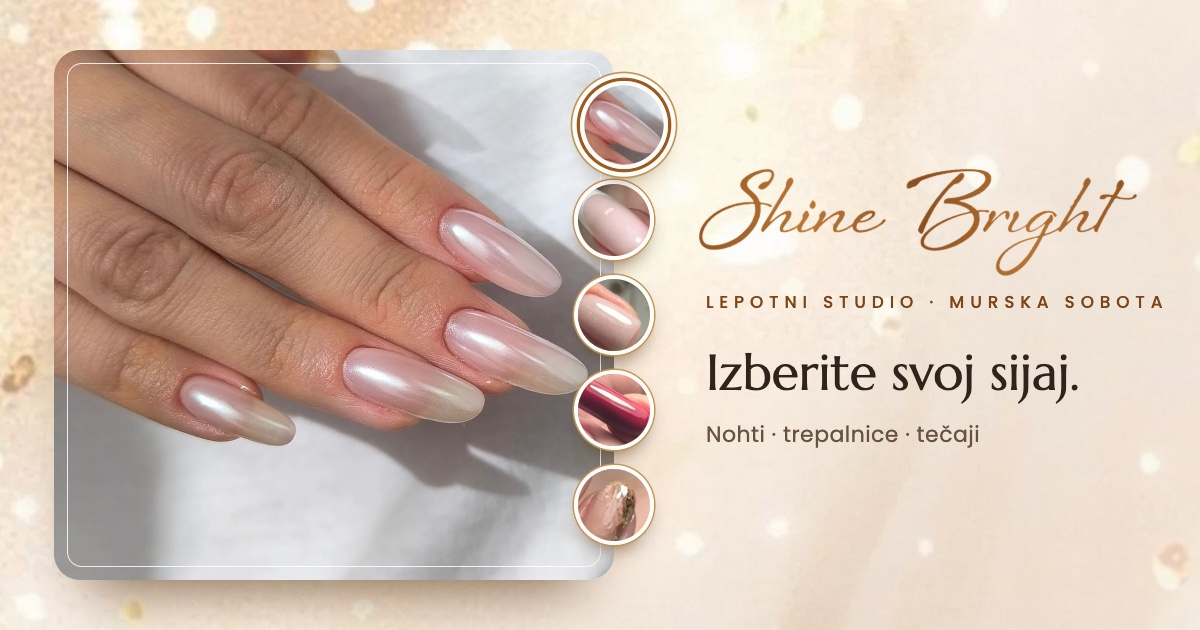
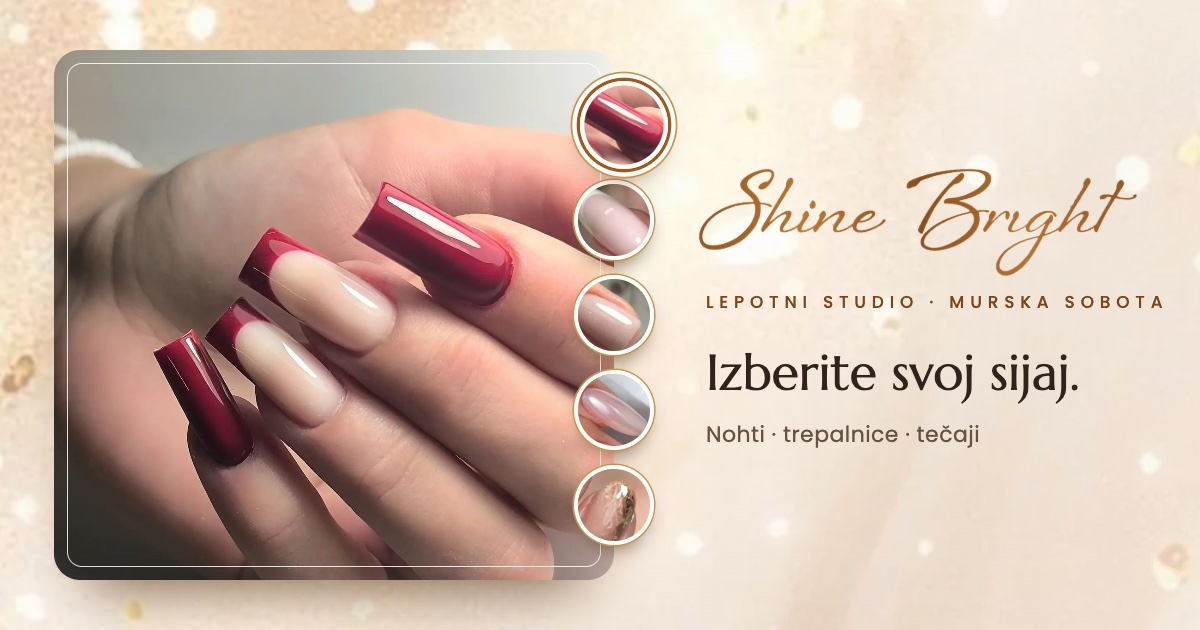
Shine Bright: deep red opens the hero

diff --git a/lepotnistudioshinebright/index.html b/lepotnistudioshinebright/index.html
@@ -15,7 +15,7 @@
   <meta property="og:image" content="https://miheec-studio.github.io/website-demo/lepotnistudioshinebright/assets/og.jpg">
   <meta property="og:image:width" content="1200">
   <meta property="og:image:height" content="630">
-  <meta property="og:image:alt" content="Shine Bright, lepotni studio v Murski Soboti: nohti z bisernim sijajem">
+  <meta property="og:image:alt" content="Shine Bright, lepotni studio v Murski Soboti: nohti v globoki rdeči">
   <meta property="og:locale" content="sl_SI">
   <meta property="og:locale:alternate" content="en_US">
   <meta name="twitter:card" content="summary_large_image">
@@ -24,7 +24,7 @@
   <link rel="preload" href="assets/fonts/marcellus-normal-400-latin.woff2" as="font" type="font/woff2" crossorigin>
   <link rel="preload" href="assets/fonts/poppins-normal-400-latin.woff2" as="font" type="font/woff2" crossorigin>
   <link rel="stylesheet" href="fonts.css">
-  <link rel="stylesheet" href="style.css?v=1">
+  <link rel="stylesheet" href="style.css?v=2">
   <script>
     // Language before first paint: the visitor's own choice, else Slovenian for Slovenian-language devices
     (function () {
@@ -89,24 +89,24 @@
 
         <div class="hero__stage">
           <div class="stage" id="stage">
-            <img class="stage__img is-on" src="assets/img/look-chrome.jpg" width="1280" height="1122" fetchpriority="high" data-look="chrome" style="object-position: 62% 50%"
-                 alt="Roka z dolgimi mandljastimi nohti v bisernem chrome sijaju" data-alt-en="A hand with long almond nails in a pearl chrome shine">
-            <p class="stage__name" id="lookName"><span class="stage__no">N° 1</span><span data-lang="sl">Biserni chrome</span><span data-lang="en">Pearl chrome</span></p>
+            <img class="stage__img is-on" src="assets/img/look-rdeca.jpg" width="1280" height="1148" fetchpriority="high" data-look="rdeca" style="object-position: 48% 42%"
+                 alt="Dolgi kvadratni nohti v globoki rdeči" data-alt-en="Long square nails in deep red">
+            <p class="stage__name" id="lookName"><span class="stage__no">N° 1</span><span data-lang="sl">Globoka rdeča</span><span data-lang="en">Deep red</span></p>
             <span class="stage__shine" aria-hidden="true"></span>
           </div>
           <div class="picker" id="picker" role="group" aria-label="Izberite videz" data-label-sl="Izberite videz" data-label-en="Choose a look">
-            <button class="swatch" type="button" aria-pressed="true" data-look="chrome" data-cat="chrome" data-src="assets/img/look-chrome.jpg" data-w="1280" data-h="1122" data-pos="62% 50%"
-                    data-name-sl="Biserni chrome" data-name-en="Pearl chrome" aria-label="Biserni chrome" data-label-sl="Biserni chrome" data-label-en="Pearl chrome"
-                    data-alt-sl="Roka z dolgimi mandljastimi nohti v bisernem chrome sijaju" data-alt-en="A hand with long almond nails in a pearl chrome shine"><img src="assets/img/sw-chrome.jpg" width="168" height="168" alt=""></button>
+            <button class="swatch" type="button" aria-pressed="true" data-look="rdeca" data-cat="rdeca" data-src="assets/img/look-rdeca.jpg" data-w="1280" data-h="1148" data-pos="48% 42%"
+                    data-name-sl="Globoka rdeča" data-name-en="Deep red" aria-label="Globoka rdeča" data-label-sl="Globoka rdeča" data-label-en="Deep red"
+                    data-alt-sl="Dolgi kvadratni nohti v globoki rdeči" data-alt-en="Long square nails in deep red"><img src="assets/img/sw-rdeca.jpg" width="168" height="168" alt=""></button>
             <button class="swatch" type="button" aria-pressed="false" data-look="french" data-cat="french" data-src="assets/img/look-french.jpg" data-w="1280" data-h="1348" data-pos="50% 30%"
                     data-name-sl="Klasičen french" data-name-en="Classic French" aria-label="Klasičen french" data-label-sl="Klasičen french" data-label-en="Classic French"
                     data-alt-sl="Klasičen french od blizu: rožnata podlaga in bele konice" data-alt-en="Classic French up close: a pink base and white tips"><img src="assets/img/sw-french.jpg" width="168" height="168" alt=""></button>
             <button class="swatch" type="button" aria-pressed="false" data-look="nude" data-cat="nude" data-src="assets/img/look-nude.jpg" data-w="1280" data-h="1052" data-pos="72% 45%"
                     data-name-sl="Nežen nude" data-name-en="Soft nude" aria-label="Nežen nude" data-label-sl="Nežen nude" data-label-en="Soft nude"
                     data-alt-sl="Kratki nude nohti z nežnim leskom" data-alt-en="Short nude nails with a soft shimmer"><img src="assets/img/sw-nude.jpg" width="168" height="168" alt=""></button>
-            <button class="swatch" type="button" aria-pressed="false" data-look="rdeca" data-cat="rdeca" data-src="assets/img/look-rdeca.jpg" data-w="1280" data-h="1148" data-pos="48% 42%"
-                    data-name-sl="Globoka rdeča" data-name-en="Deep red" aria-label="Globoka rdeča" data-label-sl="Globoka rdeča" data-label-en="Deep red"
-                    data-alt-sl="Dolgi kvadratni nohti v globoki rdeči" data-alt-en="Long square nails in deep red"><img src="assets/img/sw-rdeca.jpg" width="168" height="168" alt=""></button>
+            <button class="swatch" type="button" aria-pressed="false" data-look="chrome" data-cat="chrome" data-src="assets/img/look-chrome.jpg" data-w="1280" data-h="1122" data-pos="62% 50%"
+                    data-name-sl="Biserni chrome" data-name-en="Pearl chrome" aria-label="Biserni chrome" data-label-sl="Biserni chrome" data-label-en="Pearl chrome"
+                    data-alt-sl="Roka z dolgimi mandljastimi nohti v bisernem chrome sijaju" data-alt-en="A hand with long almond nails in a pearl chrome shine"><img src="assets/img/sw-chrome.jpg" width="168" height="168" alt=""></button>
             <button class="swatch" type="button" aria-pressed="false" data-look="art" data-cat="art" data-src="assets/img/look-art.jpg" data-w="1280" data-h="1036" data-pos="46% 45%"
                     data-name-sl="Nail art" data-name-en="Nail art" aria-label="Nail art" data-label-sl="Nail art" data-label-en="Nail art"
                     data-alt-sl="Rjavi nohti in nude nohta z zlatim marmorjem" data-alt-en="Brown nails and two nude nails with gold marble"><img src="assets/img/sw-art.jpg" width="168" height="168" alt=""></button>
@@ -517,6 +517,6 @@
 
   <p class="demo-badge" role="note"><span data-lang="sl">Demo predogled</span><span data-lang="en">Demo preview</span></p>
 
-  <script src="script.js?v=1"></script>
+  <script src="script.js?v=2"></script>
 </body>
 </html>

diff --git a/lepotnistudioshinebright/script.js b/lepotnistudioshinebright/script.js
@@ -82,9 +82,11 @@
   var stage = document.getElementById('stage');
   var picker = document.getElementById('picker');
   var nameEl = document.getElementById('lookName');
-  var currentCat = 'chrome';
+  var currentCat = 'french';
   if (stage && picker && nameEl) {
     var swatches = picker.querySelectorAll('.swatch');
+    var pressed = picker.querySelector('.swatch[aria-pressed="true"]');
+    if (pressed) currentCat = pressed.getAttribute('data-cat');
     var photos = {};
     var firstPhoto = stage.querySelector('.stage__img');
     photos[firstPhoto.getAttribute('data-look')] = firstPhoto;
